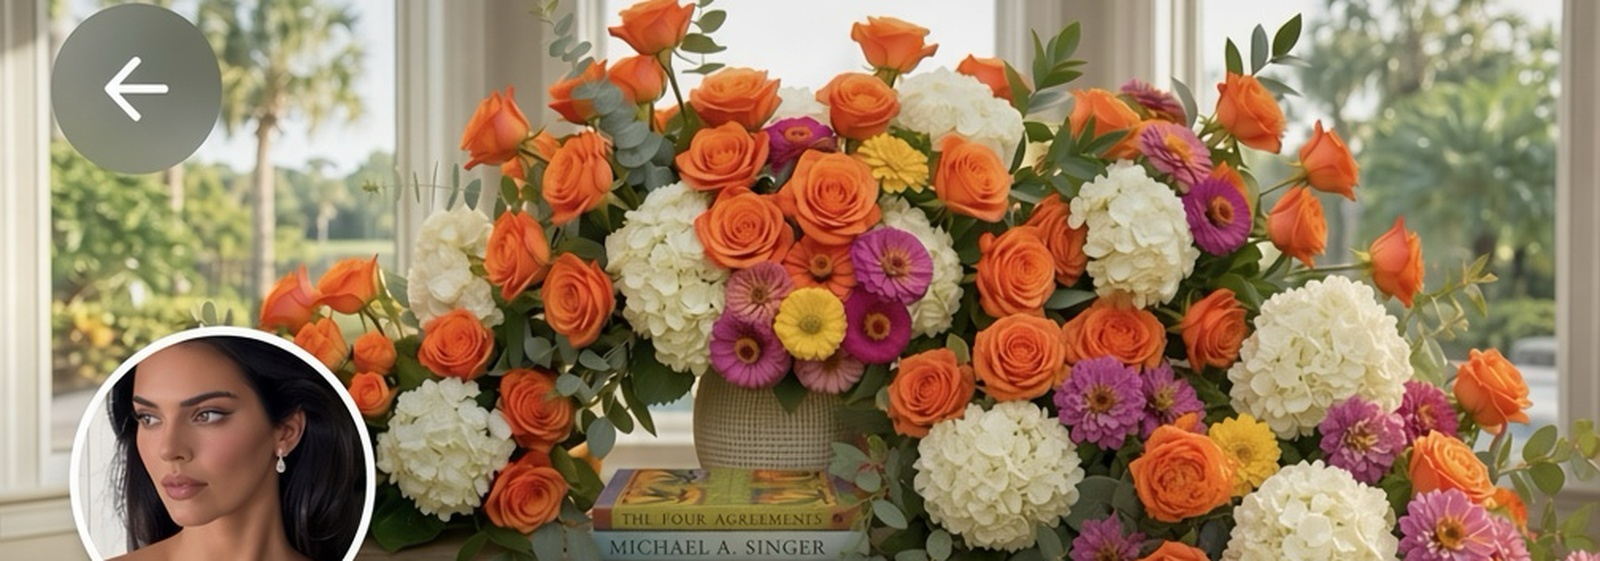
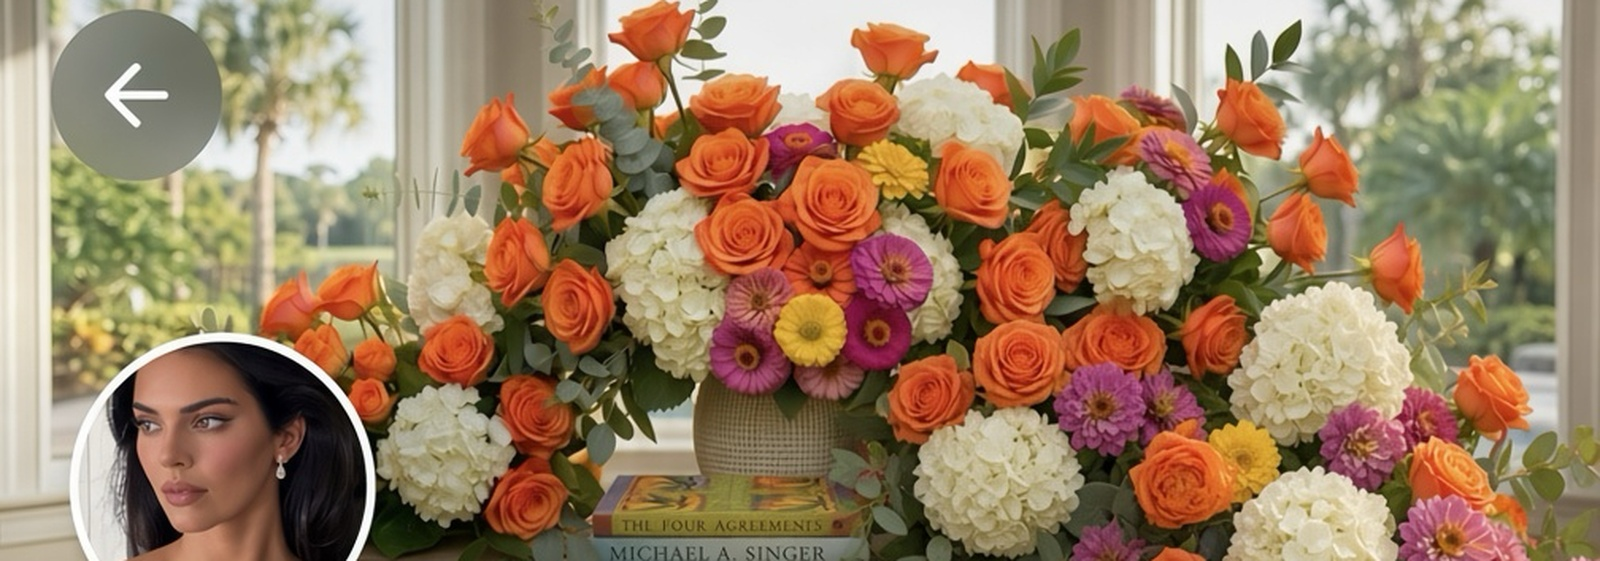
Restore Kendall dense cascade matching approved reference

diff --git a/src/app/[username]/page.tsx b/src/app/[username]/page.tsx
@@ -1,4 +1,5 @@
 "use client";
+/* KENDALL_CASCADE_GOOD_V8 */
 /* JUSTIN_HENRY_ONLY_V3 */
 /* interaction-v2 */
 
@@ -683,31 +684,62 @@ export default function ProfilePage() {
         <Sidebar />
       </div>
 
-      <main className="w-full max-w-[600px] border-x-0 sm:border-x border-border pb-28 sm:pb-0">
+      <main
+        className={`w-full max-w-[600px] border-x-0 sm:border-x border-border pb-28 sm:pb-0 ${
+          unameLower === "kendall.vip" ? "overflow-visible" : ""
+        }`}
+      >
         {/* Banner + Avatar */}
-        <div className="relative">
-          {(profile as any).banner_url ? (
+        <div className={`relative ${unameLower === "kendall.vip" ? "overflow-visible" : ""}`}>
+          {(profile as any).banner_url || unameLower === "kendall.vip" ? (
             <div
               className={`relative w-full overflow-hidden ${
                 isBusiness
                   ? "h-40 sm:h-48"
                   : isMusician
                     ? "h-32 sm:h-36"
-                    : "h-36 sm:h-44"
+                    : unameLower === "kendall.vip"
+                      ? "h-44 sm:h-52"
+                      : "h-36 sm:h-44"
               }`}
             >
               <img
-                src={(profile as any).banner_url}
+                src={
+                  unameLower === "kendall.vip"
+                    ? ((profile as any).banner_url || "/kendall-banner.jpg")
+                    : (profile as any).banner_url
+                }
                 alt=""
-                className="h-full w-full object-cover object-center"
+                className={`h-full w-full object-cover ${
+                  unameLower === "kendall.vip" ? "object-[center_40%]" : "object-center"
+                }`}
               />
-              <div className="pointer-events-none absolute inset-0 bg-gradient-to-t from-black/25 via-transparent to-black/10" />
+              {unameLower !== "kendall.vip" && (
+                <div className="pointer-events-none absolute inset-0 bg-gradient-to-t from-black/25 via-transparent to-black/10" />
+              )}
             </div>
           ) : (
             <div
               className={`${
                 isBusiness ? "h-40 sm:h-48" : isMusician ? "h-32 sm:h-36" : "h-28"
               } bg-gradient-to-br from-[#E8D5A3] via-[#C9A86C] to-[#B8956A]`}
+            />
+          )}
+
+          {/* @kendall.vip cascade — dense flowers from banner into profile (matches approved reference) */}
+          {unameLower === "kendall.vip" && (
+            <img
+              src="/kendall-cascade.png?v=8"
+              alt=""
+              aria-hidden
+              className="pointer-events-none absolute z-[4] select-none object-contain object-right-top"
+              style={{
+                top: "2.75rem",
+                right: 0,
+                height: "min(100vw, 460px)",
+                width: "auto",
+                maxWidth: "52%",
+              }}
             />
           )}
           <Link
@@ -909,7 +941,11 @@ export default function ProfilePage() {
         >
           <div className={`relative z-10 flex gap-2 ${isMusician ? "flex-col items-center text-center" : "items-start justify-between"}`}>
             {!isMusician && (
-            <div className="min-w-0 flex-1 pr-2">
+            <div
+              className={`min-w-0 flex-1 pr-2 ${
+                unameLower === "kendall.vip" ? "max-w-[58%]" : ""
+              }`}
+            >
               <div className="flex min-w-0 items-center gap-1.5">
                 <h2
                   className={`min-w-0 font-bold leading-tight tracking-tight text-charcoal ${
